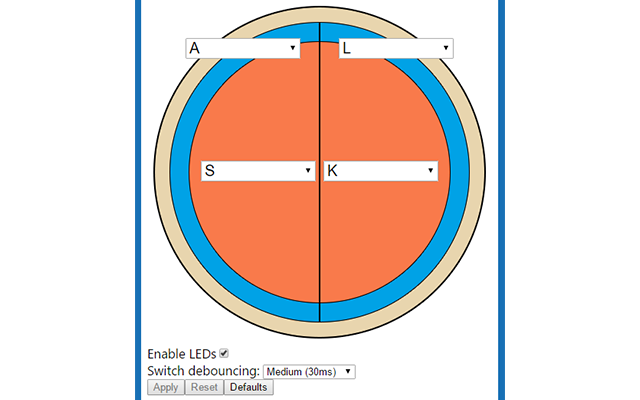
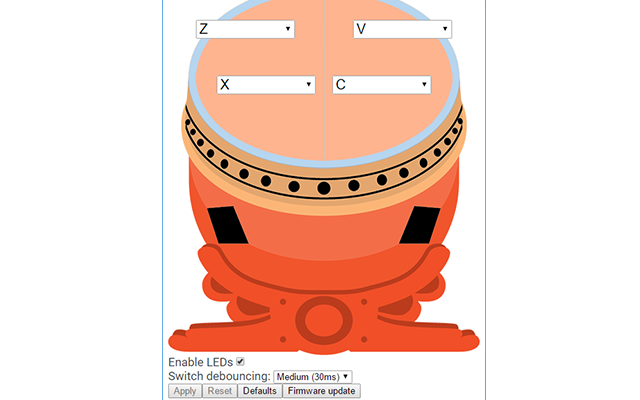
Update app assets and add button to reset to firmware

diff --git a/Software/Tataconfig/tataconfig.js b/Software/Tataconfig/tataconfig.js
@@ -1,6 +1,5 @@
 (function() {
     var devices = [];
-    var waitingMessage = "Waiting for a device, plug one in!";
     var debounceOptions = [["Off", 0], ["Low", 15], ["Medium", 30], ["High", 50]];
     var configBytes = {
         donL : 0,
@@ -12,6 +11,8 @@
         version : 6,
         reset : 7
     };
+    
+    var magicResetNumber = 42;
     
     var newDevice = function(device) {
         if(device.vendorId == 0x16D0) { // Config mode
@@ -33,7 +34,7 @@
     }
     
     var createConfigUI = function(device) {
-        document.getElementById("waiting").textContent = "";
+        document.getElementById("waiting").style.display = "none";
         
         var ui = document.createElement("div");
         device.ui = ui;
@@ -145,9 +146,28 @@
             updateUI(device);
         }
         
+        var firmwareUpdate  = document.createElement("button");
+        device.firmwareUpdate = firmwareUpdate;
+        firmwareUpdate.type = "button";
+        firmwareUpdate.textContent = "Firmware update";
+        // Becomes enabled once config is unchanged
+        firmwareUpdate.disabled = false;
+        firmwareUpdate.onclick = function() {
+            console.log("Rebooting for firmware update");
+            device.config[configBytes.reset] = magicResetNumber;
+            chrome.hid.send(device.connId, 0, device.config.buffer, function() {
+                console.log("Reboot sent, bye bye!");
+                // Ignore the failure to send
+                if(chrome.runtime.lastError) {
+                    ;
+                }
+            });
+        }
+        
         buttons.appendChild(apply);
         buttons.appendChild(resetConfig);
         buttons.appendChild(resetDefaults);
+        buttons.appendChild(firmwareUpdate);
         config.appendChild(buttons);
         
         ui.appendChild(config);
@@ -183,9 +203,11 @@
         if(changed) {
             device.apply.disabled = false;
             device.resetConfig.disabled = false;
+            device.firmwareUpdate.disabled = true;
         } else {
             device.apply.disabled = true;
             device.resetConfig.disabled = true;
+            device.firmwareUpdate.disabled = false;
         }
     }
     
@@ -200,7 +222,7 @@
             }
         }
         if(devices.length == 0) {
-            document.getElementById("waiting").textContent = waitingMessage;
+            document.getElementById("waiting").style.display = "flex";
         }
         if(removed) {
             document.getElementById("content").removeChild(removed.ui);
@@ -208,7 +230,7 @@
     }
     
     window.addEventListener('load', function() {
-        document.getElementById("waiting").textContent = waitingMessage;
+        document.getElementById("waiting").style.display = "flex";
         chrome.hid.getDevices({}, function(devices) {
             if (chrome.runtime.lastError) {
               console.error("Unable to enumerate devices: " +

diff --git a/Software/Tataconfig/style.css b/Software/Tataconfig/style.css
@@ -53,7 +53,7 @@ body, html {
 .tatacon {
     position: relative;
     width: 450px;
-    height: 450px;
+    height: 532px;
     background-image: url("tatacon.png");
 }
 
@@ -63,7 +63,7 @@ body, html {
 }
 
 .donL, .donR {
-    top: 210px;
+    top: 130px;
 }
 .katL, .katR {
     top: 50px;
@@ -75,10 +75,10 @@ body, html {
     right: 70px;
 }
 .katL {
-    left: 50px;
+    left: 40px;
 }
 .katR {
-    right: 50px;
+    right: 40px;
 }
 
 .title {

diff --git a/Software/Tataconfig/window.html b/Software/Tataconfig/window.html
@@ -5,7 +5,7 @@
     <script type="text/javascript" src="tataconfig.js"></script>
   </head>
   <body>
-    <div id="waiting"></div>
+    <div id="waiting">Waiting for a device, plug one in!</div>
     <div id="content"></div>
   </body>
 </html>

diff --git a/Software/Tataconfig/main.js b/Software/Tataconfig/main.js
@@ -1,8 +1,8 @@
 chrome.app.runtime.onLaunched.addListener(function() {
   chrome.app.window.create('window.html', {
     'innerBounds': {
-      'width': 466,
-      'height': 580
+      'width': 480,
+      'height': 662
     }
   });
 });
